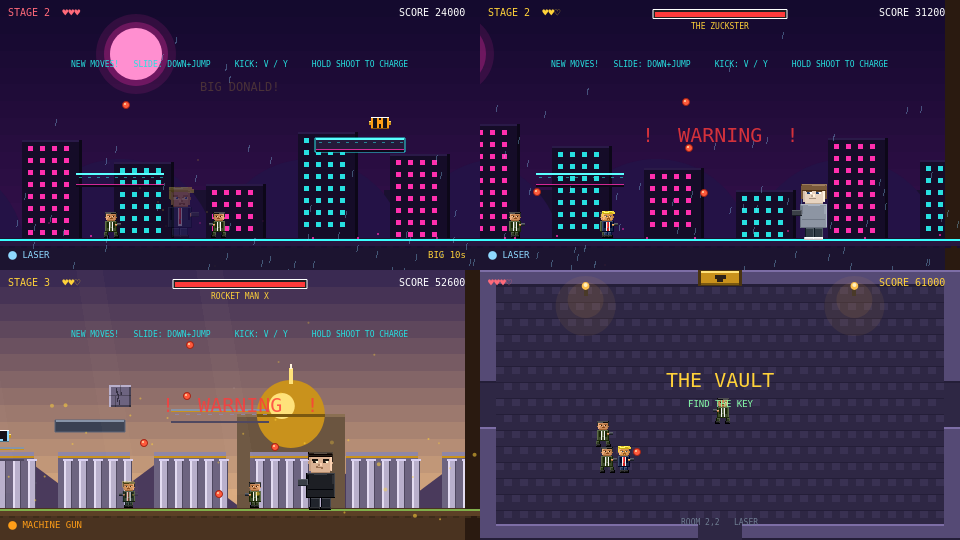
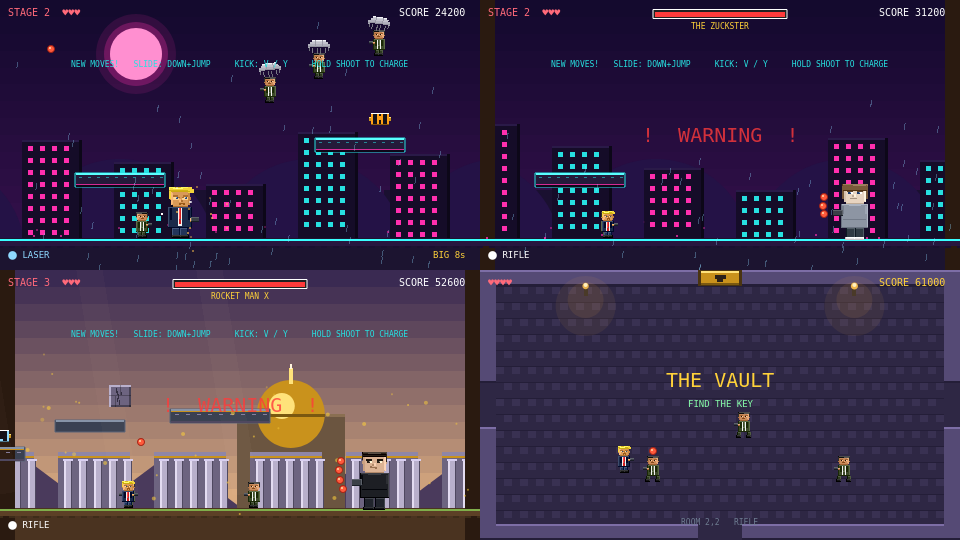
Refresh the README screenshot for BIG DONALD's hip gun and paratroopers
The hero panel showed BIG DONALD's old chest-height gun, and nothing of the
paratroopers, the biggest visible addition since the last capture. Same four
scenes, so the caption holds; the first panel now has a stick of three
paratroopers dropping over him, and the caption and alt text say so.

Captured from the real game, headless, each panel a native 480x270 frame at
1:1 with the CRT filter off. The stage's own drop zones were marked as
triggered before placing the Donald, since teleporting him past them fired
all of them at once and stacked nine troopers on overlapping spots. The HUDs
in the boss and Vault panels read RIFLE, which is now accurate, since
weapons reset every stage.

Saved lossless, 54K (was 56K).

diff --git a/README.md b/README.md
@@ -6,9 +6,10 @@ of public figures.
 
 **▶ [Play it in your browser](https://madmartigan1.github.io/freedom-force/)**
 
-![Operation: Freedom Force — BIG DONALD in the rain, the boss fights against THE ZUCKSTER and ROCKET MAN X, and a room inside THE VAULT](docs/screenshot.png)
+![Operation: Freedom Force — BIG DONALD in the rain under a paratrooper drop, the boss fights against THE ZUCKSTER and ROCKET MAN X, and a room inside THE VAULT](docs/screenshot.png)
 
-*Clockwise from top left: BIG DONALD in the Stage 2 rain, THE ZUCKSTER, a room
+*Clockwise from top left: BIG DONALD in the Stage 2 rain under a paratrooper
+drop, THE ZUCKSTER, a room
 in THE VAULT, and ROCKET MAN X. Shown with the CRT filter off — press `C` in
 game to turn it on.*
 
